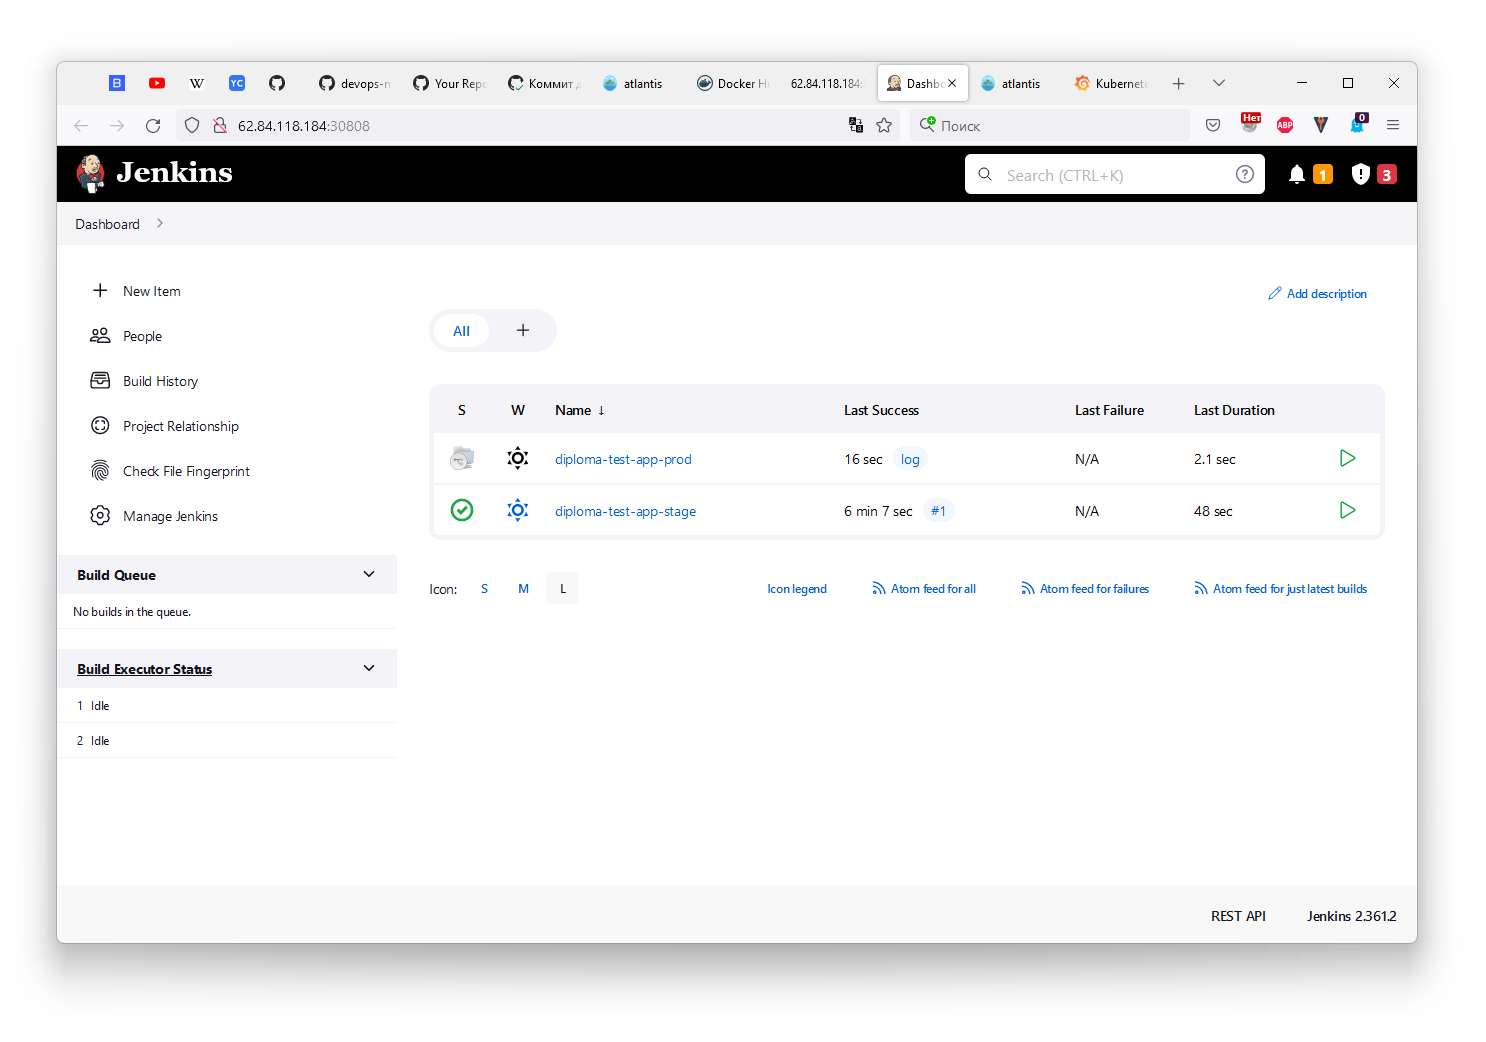
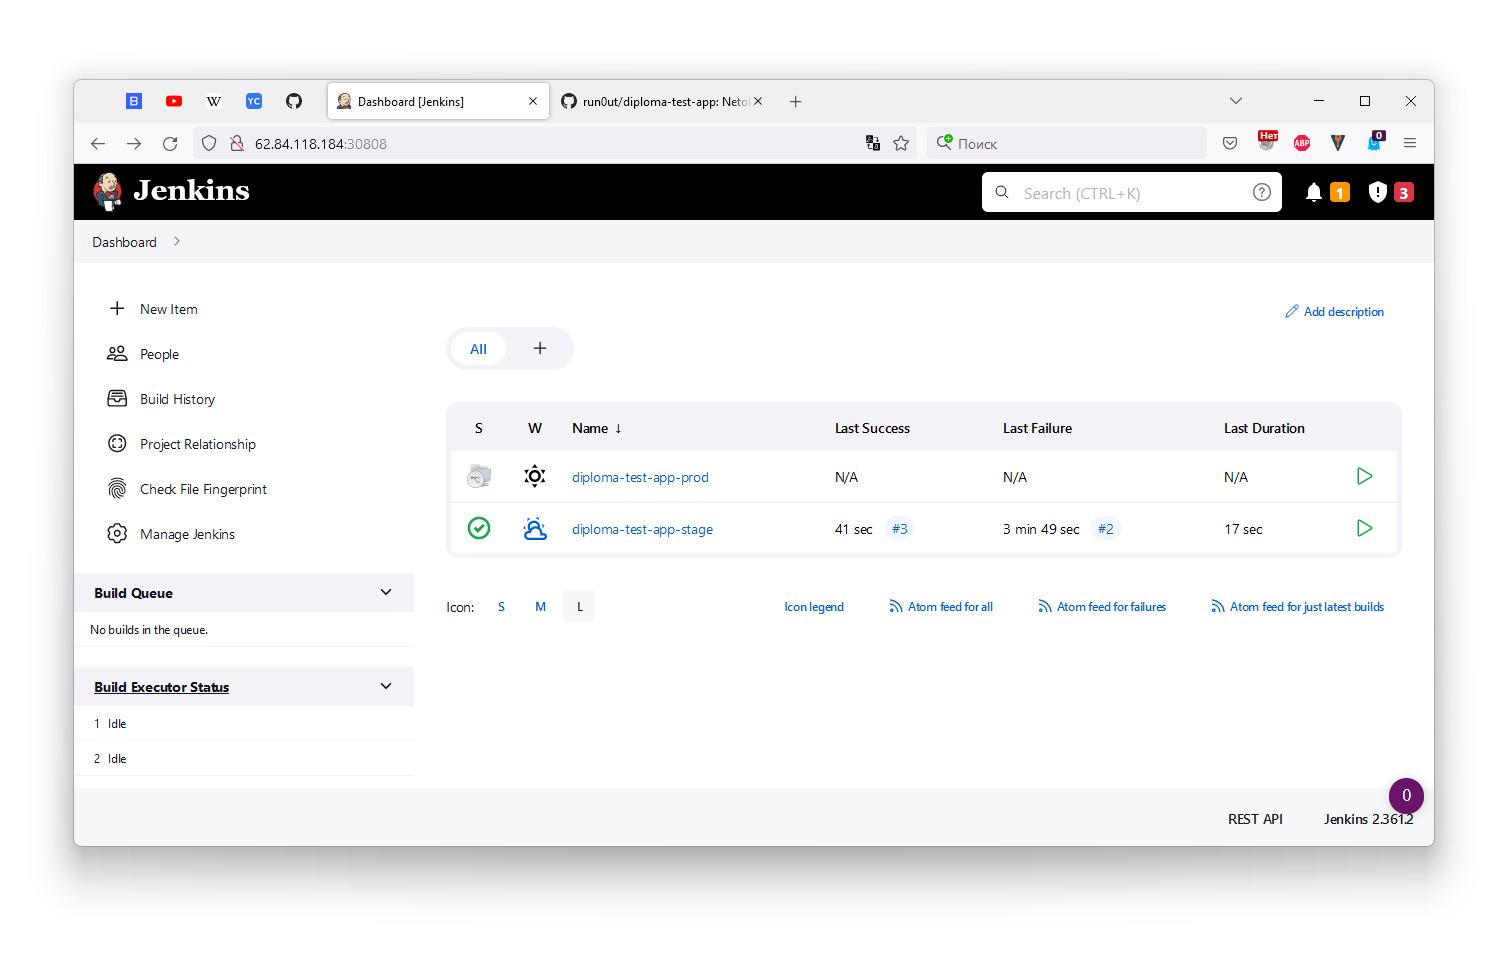
Диплом: дополнено описание

diff --git a/06-devops-diplom-yandexcloud/README.md b/06-devops-diplom-yandexcloud/README.md
@@ -268,10 +268,12 @@
 
     ![diploma-jenkins-main.png](media/diploma-jenkins-main.png)
 
-- Задание, которое собирает и отправляет latest образ при любом коммите
+- Задание, которое собирает и отправляет latest образ при любом коммите. Ошибка второго билда произошла, т.к. я успел сменить пароль Docker; поправил Credentials и запустил третий билд.
 
     ![diploma-jenkins-stage.png](media/diploma-jenkins-stage.png)
 
-- Задание, которое отслеживает появление новых тегов, собирает образ, отправляет в регистри и разворачивает в Kubernetes
+- Задание, которое отслеживает появление новых тегов, собирает образ, отправляет в регистри и разворачивает в Kubernetes. Ошибка первого билда тега `v0.0.2` произошла, т.к. я успел сменить пароль Docker; поправил Credentials и запустил повторный билд.
 
+    ![diploma-jenkins-prod-tags.png](media/diploma-jenkins-prod-tags.png)
     ![diploma-jenkins-prod.png](media/diploma-jenkins-prod.png)
+    ![diploma-jenkins-prod-tag2-builds.png](media/diploma-jenkins-prod-tag2-builds.png)

diff --git a/06-devops-diplom-yandexcloud/02/README.md b/06-devops-diplom-yandexcloud/02/README.md
@@ -78,12 +78,11 @@
         {
             tag_n=0
             date +%s > dummy
-            git checkout -b dev
             git add dummy 
             tag_n=$((tag_n+1))
             git commit -m "tag $tag_n"
             git tag v0.0.$tag_n
-            git push --tags origin dev
+            git push --tags origin main
         }
         ```
     - Через пару минут проверьте, что Jenkins собрал докер-образы и отправил в Docker Hub
